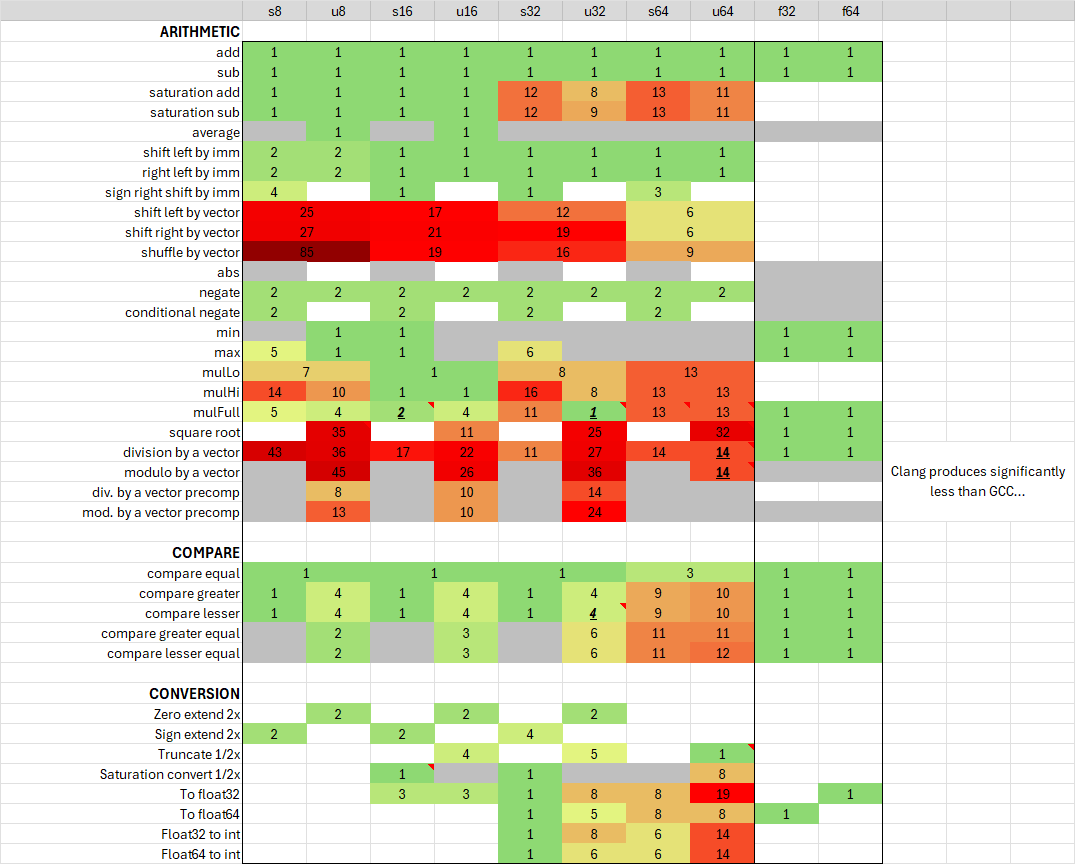
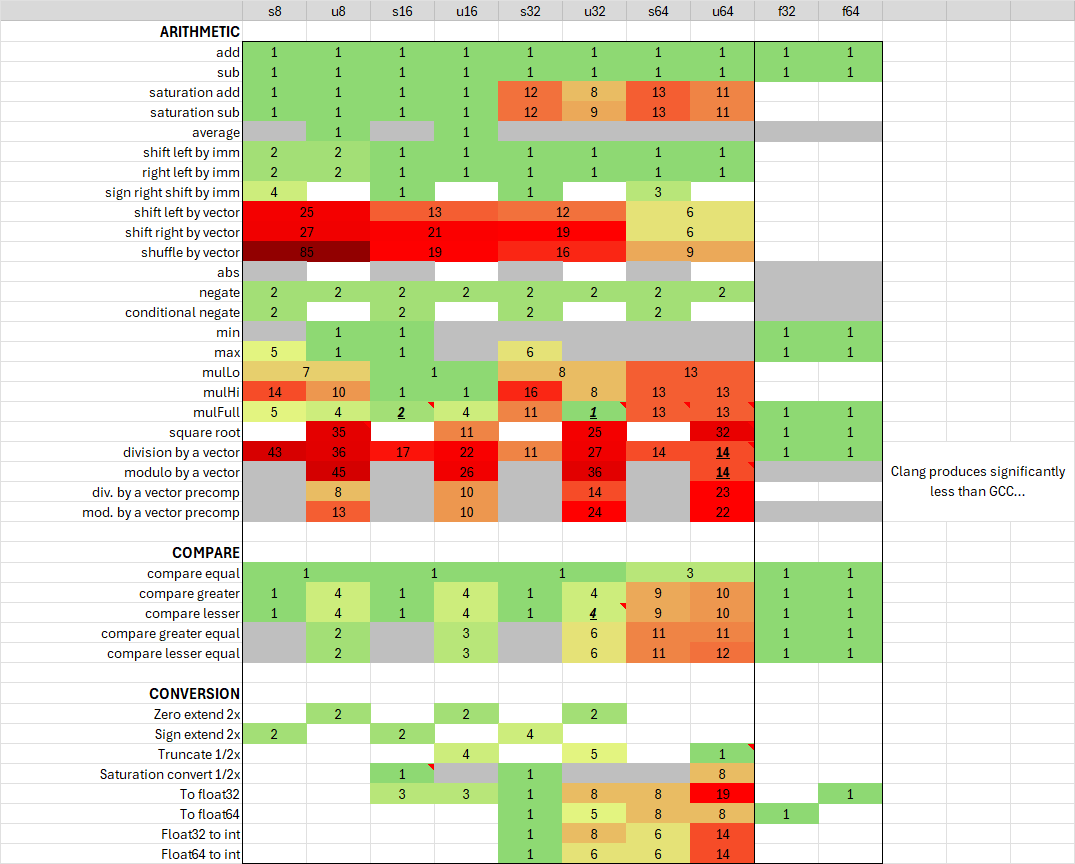
Better u16 shiftLeftVar
Improved u16 variable left shift by:
- Offset the exponent once, before width extending
- Calculate negative power instead, avoiding the call to `_trunc` which was needed to prevent `packs` saturation
- Perf: +10%, -5 instructions

Additionally:
- Added 8-bit and 16-bit shift methods to the benchmark
- Updated performance excel & image files to reflect these changes

Changed region(s): [[0.3377, 0.2188, 0.4605, 0.2812], [0.6447, 0.5312, 0.706, 0.625]]

diff --git a/tests/varShift_Methods.h b/tests/varShift_Methods.h
@@ -301,10 +301,12 @@ NOINLINE __m128i directBitByBitR_8(__m128i toShift, __m128i amount) {
     return toShift;
 }
 
+
 NOINLINE __m128i directBitByBitAR_8(__m128i toShift, __m128i amount) {
 
     // Element size doesn't matter
     amount = _mm_slli_epi16(amount, 8-3);
+    __m128i shiftBy2_2ndMSB = _mm_and_si128(amount, _mm_set1_epi8(1<<6));
 
     toShift = _either_i128(_shiftR_u8x16(toShift,1<<2), toShift, _fillWithMSB_i8x16(amount));
     amount = _mm_add_epi8(amount,amount);
@@ -312,8 +314,16 @@ NOINLINE __m128i directBitByBitAR_8(__m128i toShift, __m128i amount) {
     // avg(a,b): (a + b + 1) >> 1
     // x - ceil(x/2) = x>>1
     __m128i shiftBy2 = _fillWithMSB_i8x16(amount);
+    #if 0
     toShift = _mm_sub_epi8(toShift, _mm_and_si128(shiftBy2, _mm_avg_epu8(toShift, _mm_setzero_si128())));
     toShift = _mm_sub_epi8(toShift, _mm_and_si128(shiftBy2, _mm_avg_epu8(toShift, _mm_setzero_si128())));
+    #else
+    // (shiftBy2)? (x + 0x100) >> 1 : ((x << 1) + 1) >> 1 
+    __m128i maxOrToShift = _mm_or_si128(shiftBy2, toShift);
+    toShift = _mm_avg_epu8( _mm_avg_epu8(toShift, maxOrToShift), maxOrToShift);
+    toShift = _mm_add_epi8(toShift, shiftBy2_2ndMSB); // Shifting added two MSBs
+
+    #endif
     amount = _mm_add_epi8(amount,amount);
 
     __m128i ceilDiv2 = _mm_avg_epu8(toShift, _mm_setzero_si128());
@@ -340,7 +350,51 @@ NOINLINE __m128i repeatedHalfR_8(__m128i toShift, __m128i amount) {
     return partialShift;
 }
 
+NOINLINE __m128i repeatedHalfAR_8(__m128i toShift, __m128i amount) {
 
+    amount = _mm_and_si128(amount, _mm_set1_epi8(0b111));
+
+    __m128i partialShift = toShift;
+    __m128i truncatedLength = _mm_set1_epi8(1);
+
+    for (size_t i=0; i < 7; i++) {
+        // avg(a,b) = (a + b + 1) >> 1      avg(a,0xff) = (a + 0x100) >> 1
+        __m128i needsShift = _mm_cmpgt_epi8(amount, _mm_setzero_si128());
+
+        partialShift = _mm_avg_epu8(partialShift, _mm_andnot_si128(needsShift, partialShift));
+        truncatedLength = _mm_add_epi8(truncatedLength, _mm_and_si128(needsShift, truncatedLength));
+
+        amount = _mm_add_epi8(amount, _setone_i128());
+    }
+
+    // If any bits where truncated, the resulted was rounded up!
+    __m128i truncatedBits = _mm_and_si128(toShift, _mm_add_epi8(truncatedLength, _setone_i128()));
+    return _mm_add_epi8(partialShift, _mm_cmpgt_epi8(truncatedBits, _mm_setzero_si128()));
+}
+
+
+
+NOINLINE __m128i repeatedHalfArithmeticShift_8(__m128i toShift, __m128i amount) {
+
+    amount = _mm_and_si128(amount, _mm_set1_epi8(0b111));
+
+    __m128i partialShift = toShift;
+    __m128i maskToRemMSB = _mm_or_si128(toShift, _mm_set1_epi8(0b01111111));
+
+    for (size_t i=0; i < 7; i++) {
+        // avg(a,b) = (a + b + 1) >> 1      avg(a,0xff) = (a + 0x100) >> 1
+        __m128i needsShift = _mm_cmpgt_epi8(amount, _mm_setzero_si128());
+        partialShift = _mm_avg_epu8(partialShift, _mm_or_si128(needsShift, partialShift));
+
+        // Avg sets the MSB. Only keep if input was set
+        partialShift = _mm_and_si128(partialShift, maskToRemMSB);
+
+        amount = _mm_add_epi8(amount, _setone_i128());
+    }
+
+    // Each averaging shifts in a set bit
+    return partialShift;
+}
 
 
 
@@ -597,26 +651,26 @@ NOINLINE __m128i directBitByBit_16(__m128i toShift, __m128i amount) {
 
 
 NOINLINE __m128i powOf2Float_16(__m128i toShift, __m128i amount) {
-    const __m128 ONE_FLT = _mm_set1_ps(1.0f);
+    const union {float asVal; uint32_t bitRep;} ONE_FLT = {1.0f};
 
-    #if 0
-    amount = _mm_and_si128(amount, _mm_set1_epi16(0b1111));
 
-    __m128i amount_lo = _zeroExtendLo_u16x8_i32x4(amount);
-    __m128i amount_hi = _zeroExtendHi_u16x8_i32x4(amount);
-
-    __m128i expoOffset_lo = _mm_slli_epi32(amount_lo, FLT_MANT_DIG-1);
-    __m128i expoOffset_hi = _mm_slli_epi32(amount_hi, FLT_MANT_DIG-1);
-    #else
     // Clears upper bits and shifts into place so that zero padding places it into the exponent 
     __m128i expoPackedHi16 = _mm_srli_epi16( _mm_slli_epi16(amount, 16 - 4), 32-4 - (FLT_MANT_DIG-1) );
 
+    #if 0
     __m128i expoOffset_lo = _mm_unpacklo_epi16(_mm_setzero_si128(), expoPackedHi16);
     __m128i expoOffset_hi = _mm_unpackhi_epi16(_mm_setzero_si128(), expoPackedHi16);
-    #endif
 
-    __m128i powOf2Flt_lo = _mm_add_epi32(expoOffset_lo, _mm_castps_si128(ONE_FLT));
-    __m128i powOf2Flt_hi = _mm_add_epi32(expoOffset_hi, _mm_castps_si128(ONE_FLT));
+    __m128i powOf2Flt_lo = _mm_add_epi32(expoOffset_lo, _mm_set1_epi32(ONE_FLT.bitRep));
+    __m128i powOf2Flt_hi = _mm_add_epi32(expoOffset_hi, _mm_set1_epi32(ONE_FLT.bitRep));
+    #else
+
+    __m128i expoOffsetHi16 = _mm_add_epi16(expoPackedHi16, _mm_set1_epi16(ONE_FLT.bitRep >> 16));
+
+    __m128i powOf2Flt_lo = _mm_unpacklo_epi16(_mm_setzero_si128(), expoOffsetHi16);
+    __m128i powOf2Flt_hi = _mm_unpackhi_epi16(_mm_setzero_si128(), expoOffsetHi16);
+
+    #endif
 
     __m128i powOf2Int_lo = _mm_cvttps_epi32(_mm_castsi128_ps(powOf2Flt_lo));
     __m128i powOf2Int_hi = _mm_cvttps_epi32(_mm_castsi128_ps(powOf2Flt_hi));
@@ -624,8 +678,31 @@ NOINLINE __m128i powOf2Float_16(__m128i toShift, __m128i amount) {
     // Otherwise saturates when powOf2 = 1 << 15
     __m128i powOf2Int = _trunc_u32x4_u16x8(powOf2Int_lo, powOf2Int_hi);
 
+
     return _mm_mullo_epi16(toShift, powOf2Int);
 }
+
+NOINLINE __m128i powOf2FloatA_16(__m128i toShift, __m128i amount) {
+    const union {float asVal; uint32_t bitRep;} NEGONE_FLT = {-1.0f};
+
+
+    // Clears upper bits and shifts into place so that zero padding places it into the exponent 
+    __m128i expoPackedHi16 = _mm_srli_epi16( _mm_slli_epi16(amount, 16 - 4), 32-4 - (FLT_MANT_DIG-1) );
+    __m128i expoOffsetHi16 = _mm_add_epi16(expoPackedHi16, _mm_set1_epi16(NEGONE_FLT.bitRep >> 16));
+
+    __m128i negPow2Flt_lo = _mm_unpacklo_epi16(_mm_setzero_si128(), expoOffsetHi16);
+    __m128i negPow2Flt_hi = _mm_unpackhi_epi16(_mm_setzero_si128(), expoOffsetHi16);
+
+    __m128i negPow2Int_lo = _mm_cvttps_epi32(_mm_castsi128_ps(negPow2Flt_lo));
+    __m128i negPow2Int_hi = _mm_cvttps_epi32(_mm_castsi128_ps(negPow2Flt_hi));
+
+    // A positive power would have saturated with: 1 << 15
+    __m128i negPow2Int_underflow = _mm_packs_epi32(negPow2Int_lo, negPow2Int_hi);
+
+    // `INT_MIN` is equal to desired unsigned power and remains the same when negated
+    return _mm_mullo_epi16(_negate_i16x8(toShift), negPow2Int_underflow);
+}
+
 
 NOINLINE __m128i floatScale_16(__m128i toShift, __m128i amount) {
 
@@ -740,6 +817,7 @@ NOINLINE __m128i directBitByBitA_8(__m128i toShift, __m128i amount) {
 
     return toShift;
 }
+
 
 
 NOINLINE __m128i powOf2Float_8(__m128i toShift, __m128i amount) {

diff --git a/include/sseCom_parts/shift.h b/include/sseCom_parts/shift.h
@@ -86,26 +86,23 @@ __m128i _shiftRvar_u8x16(__m128i toShift, __m128i amount) {
 
 // Shifts each 16-bit element left by the amount in the corresponding vector, well shifting in zeros (modulo the element size)
 __m128i _shiftLvar_u16x8(__m128i u16ToShift, __m128i amount) {
-    const __m128 ONE_FLT = _mm_set1_ps(1.0f);
-
+    const union {float asVal; uint32_t bitRep;} NEGONE_FLT = {-1.0f};
 
     // Clears upper bits and shifts into place so that zero padding places it into the exponent 
     __m128i expoPackedHi16 = _mm_srli_epi16( _mm_slli_epi16(amount, 16 - 4), 32-4 - (FLT_MANT_DIG-1) );
+    __m128i expoOffsetHi16 = _mm_add_epi16(expoPackedHi16, _mm_set1_epi16(NEGONE_FLT.bitRep >> 16));
 
-    __m128i expoOffset_lo = _mm_unpacklo_epi16(_mm_setzero_si128(), expoPackedHi16);
-    __m128i expoOffset_hi = _mm_unpackhi_epi16(_mm_setzero_si128(), expoPackedHi16);
+    __m128i negPow2Flt_lo = _mm_unpacklo_epi16(_mm_setzero_si128(), expoOffsetHi16);
+    __m128i negPow2Flt_hi = _mm_unpackhi_epi16(_mm_setzero_si128(), expoOffsetHi16);
 
-
-    __m128i powOf2Flt_lo = _mm_add_epi32(expoOffset_lo, _mm_castps_si128(ONE_FLT));
-    __m128i powOf2Flt_hi = _mm_add_epi32(expoOffset_hi, _mm_castps_si128(ONE_FLT));
-
-    __m128i powOf2Int_lo = _mm_cvttps_epi32(_mm_castsi128_ps(powOf2Flt_lo));
-    __m128i powOf2Int_hi = _mm_cvttps_epi32(_mm_castsi128_ps(powOf2Flt_hi));
+    __m128i negPow2Int_lo = _mm_cvttps_epi32(_mm_castsi128_ps(negPow2Flt_lo));
+    __m128i negPow2Int_hi = _mm_cvttps_epi32(_mm_castsi128_ps(negPow2Flt_hi));
     
-    // Otherwise saturates when powOf2 = 1 << 15
-    __m128i powOf2Int = _trunc_u32x4_u16x8(powOf2Int_lo, powOf2Int_hi);
+    // A positive power would have saturated with: 1 << 15
+    __m128i negPow2Int = _mm_packs_epi32(negPow2Int_lo, negPow2Int_hi);
 
-    return _mm_mullo_epi16(u16ToShift, powOf2Int);
+    // `INT_MIN` is equal to desired unsigned power and remains the same when negated
+    return _mm_mullo_epi16(_negate_i16x8(u16ToShift), negPow2Int);
 }
 
 // Shifts each 16-bit element right by the amount in the corresponding vector, well shifting in zeros (modulo the element size)

diff --git a/tests/perfVarShift.c b/tests/perfVarShift.c
@@ -89,19 +89,22 @@ int main() {
     size_t iterations = 300000000ull; // 1000000000ull
 
     #ifdef PERF_u8
+    
     printf("\n\nVariable 8-bit LEFT shifts: Time taken to calculate %zu results...\n", iterations);
     perfMessure(scalar_8, iterations, rand_ints);
     perfMessure(powOf2BitByBit_8, iterations, rand_ints);
     perfMessure(directBitByBit_8, iterations, rand_ints);
-	perfMessure(directBitByBitA_8, iterations, rand_ints);
+    perfMessure(directBitByBitA_8, iterations, rand_ints);
     perfMessure(repeatedDouble_8, iterations, rand_ints);
     perfMessure(powOf2Float_8, iterations, rand_ints);
-
+    
     printf("\n8-bit RIGHT shifts: Time taken to calculate %zu results...\n", iterations);
     perfMessure(scalarR_8, iterations, rand_ints);
     perfMessure(directBitByBitR_8, iterations, rand_ints);
-	perfMessure(directBitByBitAR_8, iterations, rand_ints);
+    perfMessure(directBitByBitAR_8, iterations, rand_ints);
     perfMessure(repeatedHalfR_8, iterations, rand_ints);
+    perfMessure(repeatedHalfAR_8, iterations, rand_ints);
+    
     #endif
 
     #ifdef PERF_u16
@@ -111,6 +114,7 @@ int main() {
     perfMessure(directBitByBit_16, iterations, rand_ints);
     perfMessure(powOf2BitByBit_16, iterations, rand_ints);
     perfMessure(powOf2Float_16, iterations, rand_ints);
+    perfMessure(powOf2FloatA_16, iterations, rand_ints);
     perfMessure(floatScale_16, iterations, rand_ints);
 
     printf("\n16-bit RIGHT shifts: Time taken to calculate %zu results...\n", iterations);

diff --git a/include/sseComplete.h b/include/sseComplete.h
@@ -1,5 +1,5 @@
 #ifndef SSE_COM_H
-#define SSE_COM_H 10510
+#define SSE_COM_H 10520
 
 
 #include "sseCom_parts/_common.h"
